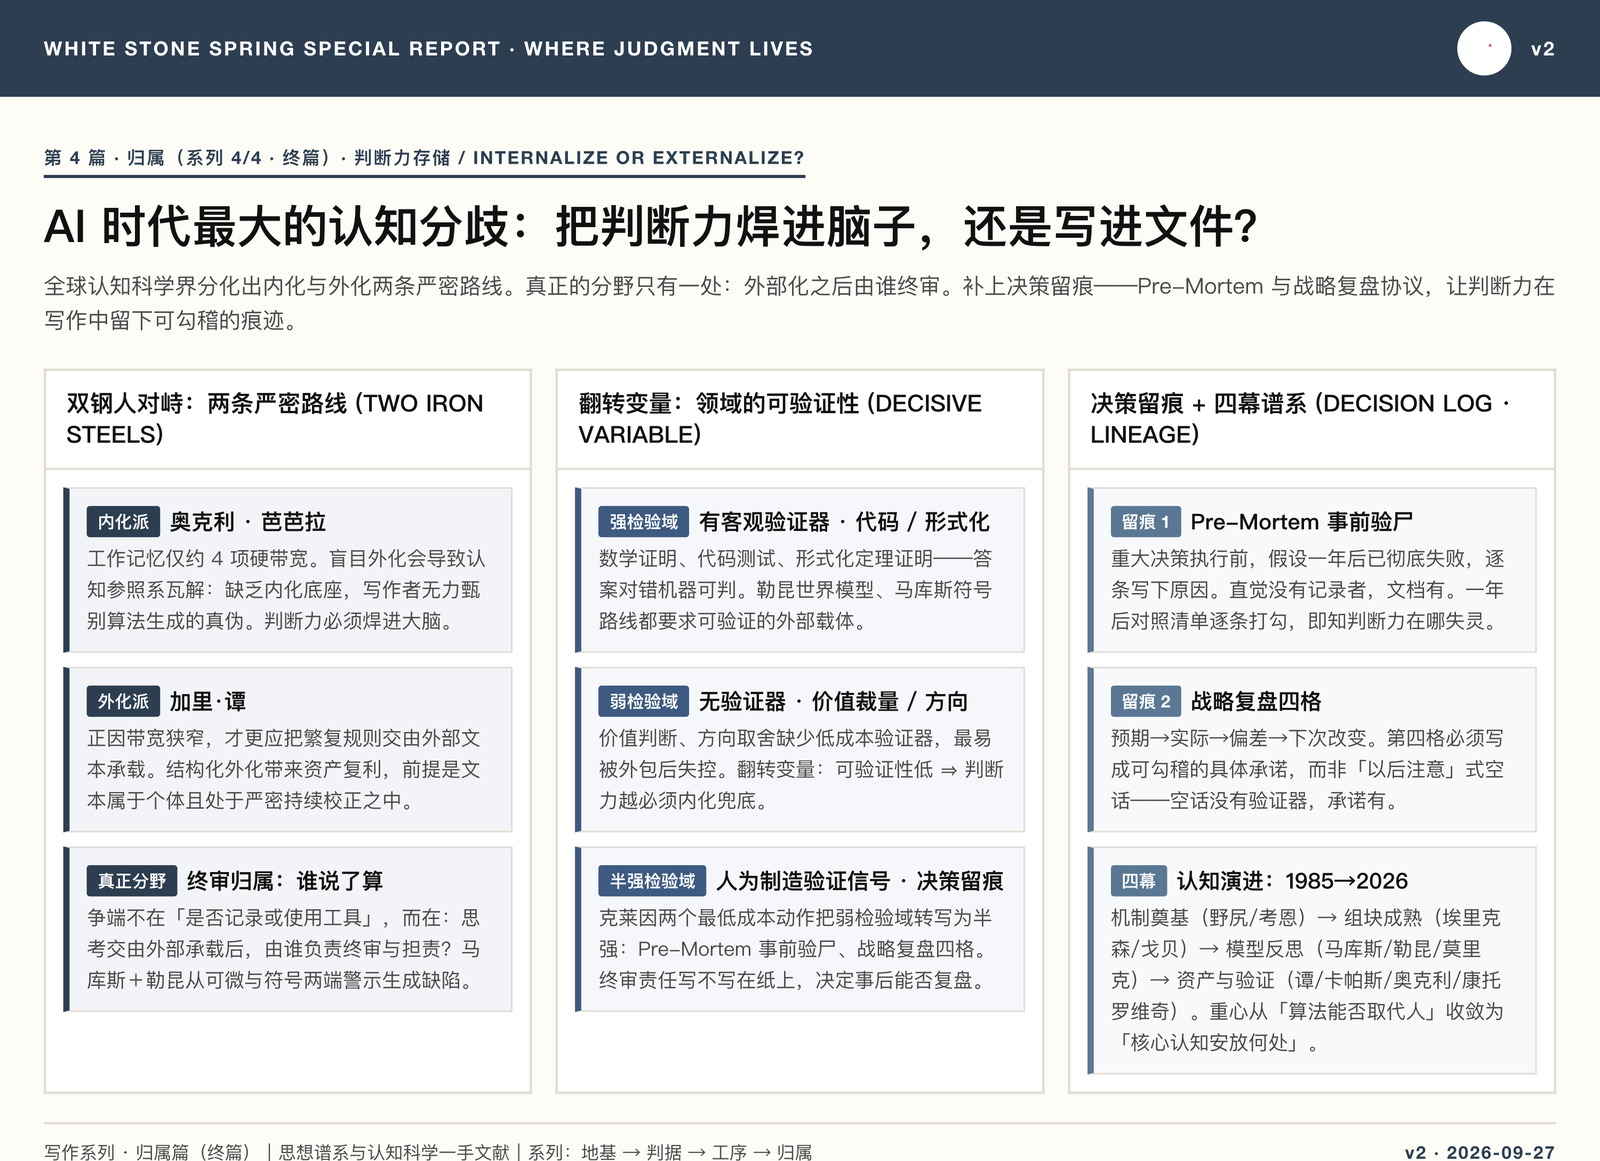
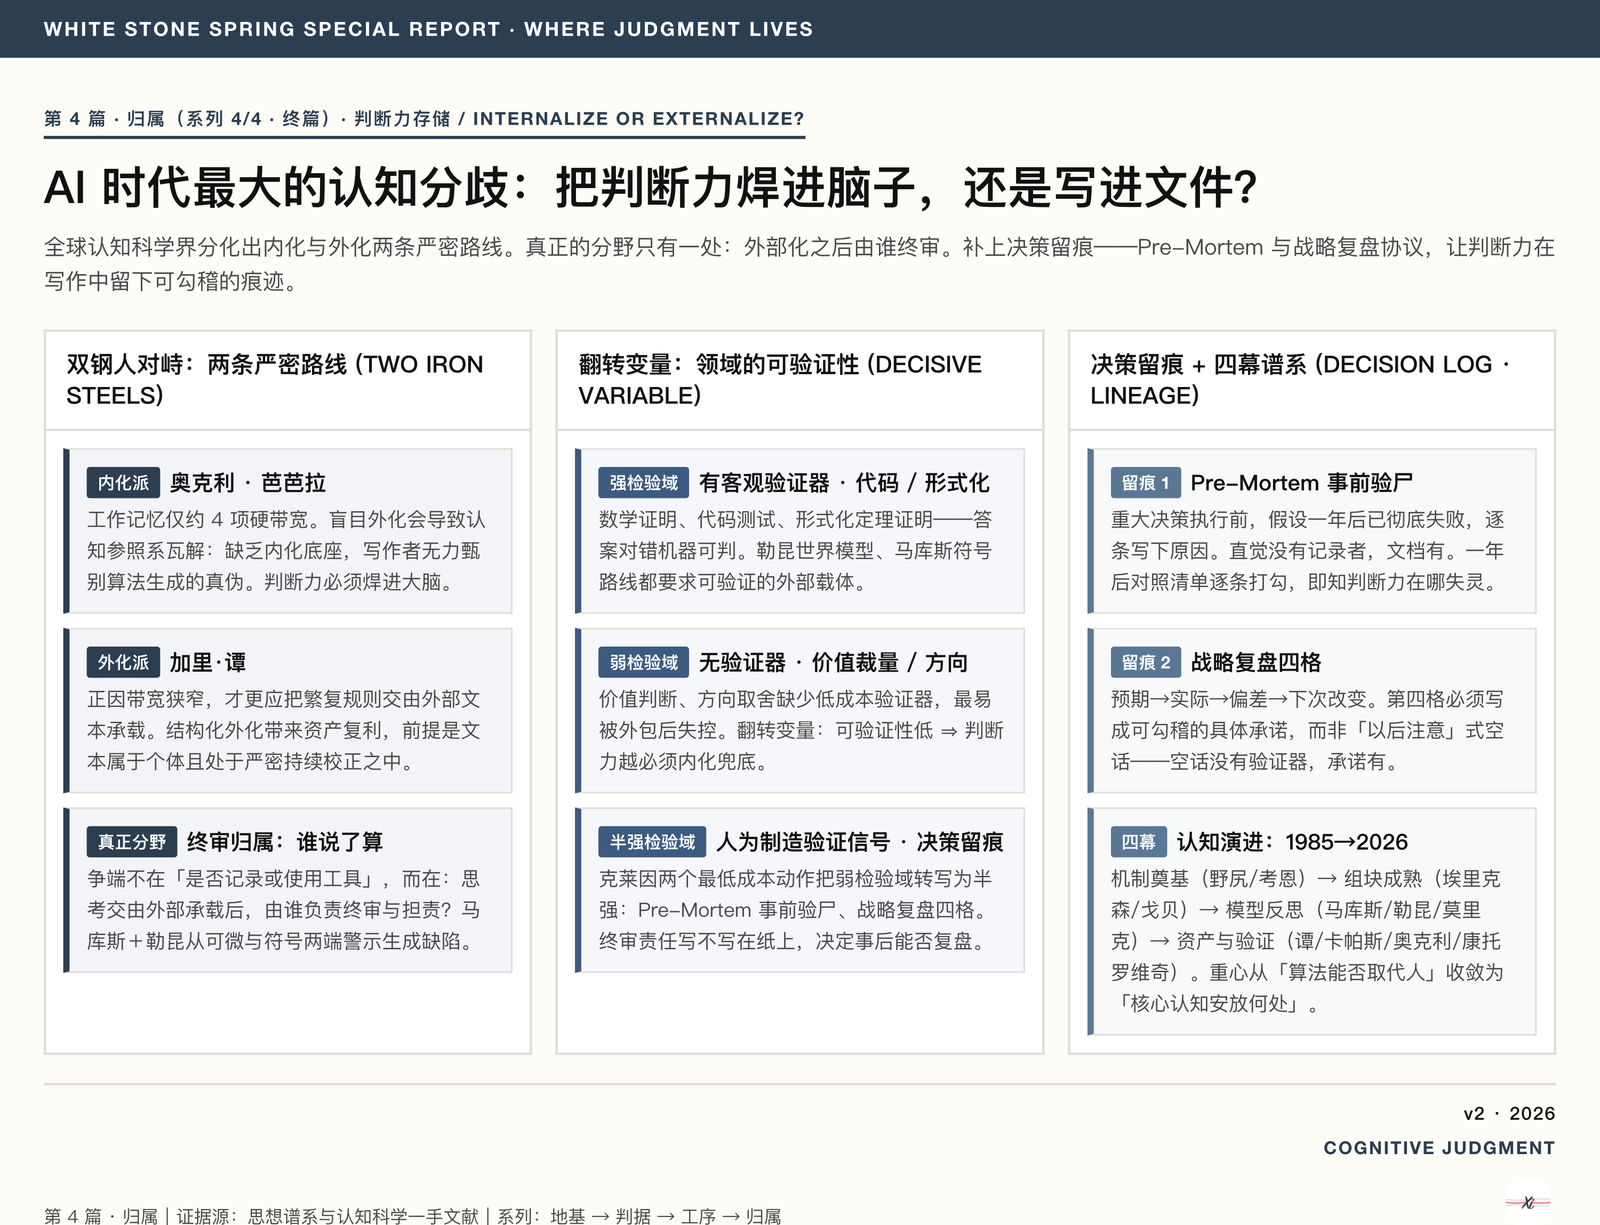
feat(cards): 14 张卡片统一右下角布局 — 版本号 + stamp + 印章
- 14 张卡片格式统一：masthead 仅保留 eyebrow，去掉印章和版本号
- footer 右下角三段式：[版本号 + stamp + 印章]，垂直堆叠
- 日期统一到年；stamp 全部为纯英文大写主题（无版本号、无日期、无内部代号）
- 内部 10 张卡片归档到 assets/_internal/，公开 4 张保留在 assets/ 根
- build_site.py 重建刷 cache-bust

Changed region(s): [[0.0, 0.0, 1.0, 1.0], [0.0312, 0.9612, 0.5312, 1.0]]

diff --git a/articles/写作是学习的发生地_意外连接与开发自己的三道工序.html b/articles/写作是学习的发生地_意外连接与开发自己的三道工序.html
@@ -33,10 +33,10 @@
   </div>
 
   <figure class="card-hero">
-  <a href="../assets/写作是学习的发生地_卡片图.html?v=1790592757" target="_blank" title="点击查看交互卡片">
-    <img src="../assets/写作是学习的发生地_卡片图.png?v=1790592757" alt="写作是学习的发生地：意外连接、知识网络，与开发自己的三道工序 卡片图" loading="lazy">
+  <a href="../assets/写作是学习的发生地_卡片图.html?v=1790593007" target="_blank" title="点击查看交互卡片">
+    <img src="../assets/写作是学习的发生地_卡片图.png?v=1790593007" alt="写作是学习的发生地：意外连接、知识网络，与开发自己的三道工序 卡片图" loading="lazy">
   </a>
-  <figcaption>卡片图 · <a href="../assets/写作是学习的发生地_卡片图.html?v=1790592757" target="_blank">点击查看交互版</a></figcaption>
+  <figcaption>卡片图 · <a href="../assets/写作是学习的发生地_卡片图.html?v=1790593007" target="_blank">点击查看交互版</a></figcaption>
 </figure>
   <div class="article-body">
 <blockquote>

diff --git a/articles/翻译如何重塑中文_两千年来五波外来语与现代写作真相.html b/articles/翻译如何重塑中文_两千年来五波外来语与现代写作真相.html
@@ -33,10 +33,10 @@
   </div>
 
   <figure class="card-hero">
-  <a href="../assets/翻译如何重塑中文_卡片图.html?v=1790592756" target="_blank" title="点击查看交互卡片">
-    <img src="../assets/翻译如何重塑中文_卡片图.png?v=1790592756" alt="翻译如何重塑中文：两千年来五波外来语浪潮，与现代写作的文体真相 卡片图" loading="lazy">
+  <a href="../assets/翻译如何重塑中文_卡片图.html?v=1790593006" target="_blank" title="点击查看交互卡片">
+    <img src="../assets/翻译如何重塑中文_卡片图.png?v=1790593006" alt="翻译如何重塑中文：两千年来五波外来语浪潮，与现代写作的文体真相 卡片图" loading="lazy">
   </a>
-  <figcaption>卡片图 · <a href="../assets/翻译如何重塑中文_卡片图.html?v=1790592756" target="_blank">点击查看交互版</a></figcaption>
+  <figcaption>卡片图 · <a href="../assets/翻译如何重塑中文_卡片图.html?v=1790593006" target="_blank">点击查看交互版</a></figcaption>
 </figure>
   <div class="article-body">
 <hr />

diff --git a/articles/什么是好的中文_十人十策与可执行规范.html b/articles/什么是好的中文_十人十策与可执行规范.html
@@ -33,10 +33,10 @@
   </div>
 
   <figure class="card-hero">
-  <a href="../assets/什么是好的中文_卡片图.html?v=1790592756" target="_blank" title="点击查看交互卡片">
-    <img src="../assets/什么是好的中文_卡片图.png?v=1790592756" alt="什么是好的中文：十位写作者的十条路，与一套可执行的规范 卡片图" loading="lazy">
+  <a href="../assets/什么是好的中文_卡片图.html?v=1790593006" target="_blank" title="点击查看交互卡片">
+    <img src="../assets/什么是好的中文_卡片图.png?v=1790593006" alt="什么是好的中文：十位写作者的十条路，与一套可执行的规范 卡片图" loading="lazy">
   </a>
-  <figcaption>卡片图 · <a href="../assets/什么是好的中文_卡片图.html?v=1790592756" target="_blank">点击查看交互版</a></figcaption>
+  <figcaption>卡片图 · <a href="../assets/什么是好的中文_卡片图.html?v=1790593006" target="_blank">点击查看交互版</a></figcaption>
 </figure>
   <div class="article-body">
 <hr />

diff --git a/articles/AI认知判断力内化与外部化双钢人.html b/articles/AI认知判断力内化与外部化双钢人.html
@@ -33,10 +33,10 @@
   </div>
 
   <figure class="card-hero">
-  <a href="../assets/AI认知判断力_卡片图.html?v=1790592757" target="_blank" title="点击查看交互卡片">
-    <img src="../assets/AI认知判断力_卡片图.png?v=1790592757" alt="AI 时代最大的认知分歧：把判断力焊进脑子，还是写进文件？ 卡片图" loading="lazy">
+  <a href="../assets/AI认知判断力_卡片图.html?v=1790593007" target="_blank" title="点击查看交互卡片">
+    <img src="../assets/AI认知判断力_卡片图.png?v=1790593007" alt="AI 时代最大的认知分歧：把判断力焊进脑子，还是写进文件？ 卡片图" loading="lazy">
   </a>
-  <figcaption>卡片图 · <a href="../assets/AI认知判断力_卡片图.html?v=1790592757" target="_blank">点击查看交互版</a></figcaption>
+  <figcaption>卡片图 · <a href="../assets/AI认知判断力_卡片图.html?v=1790593007" target="_blank">点击查看交互版</a></figcaption>
 </figure>
   <div class="article-body">
 <hr />
